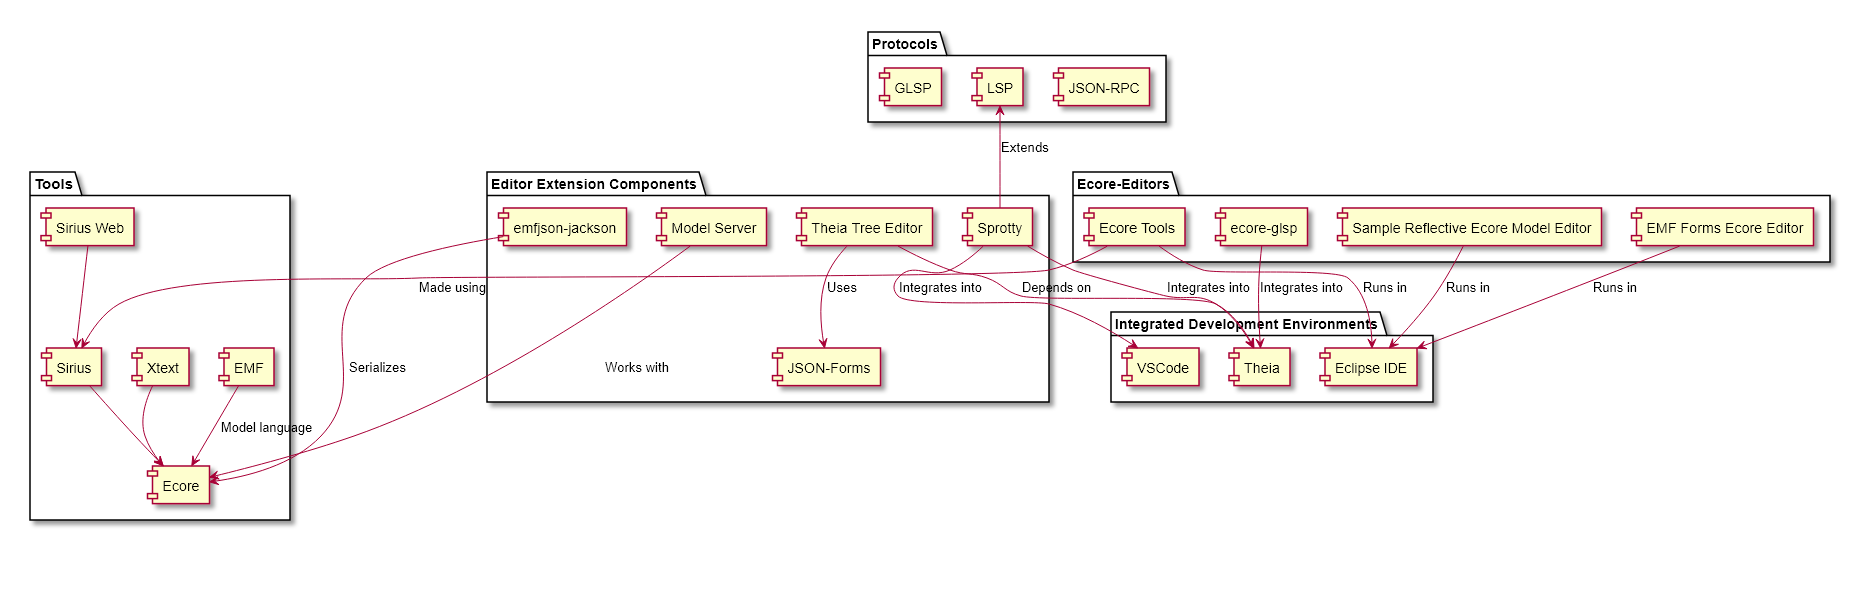
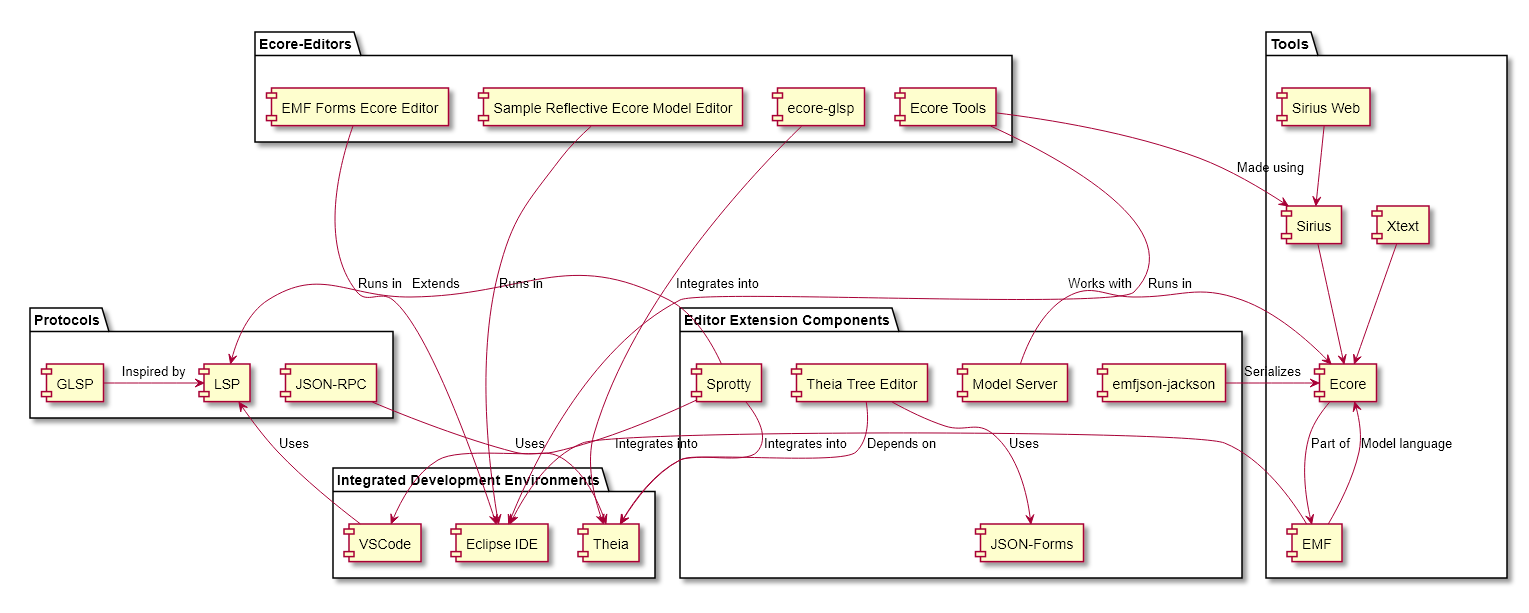
feat: Update figure

diff --git a/chapters/2-introduction/5-overview.tex b/chapters/2-introduction/5-overview.tex
@@ -3,13 +3,13 @@
 % Broad overview of the ecosystem,
 % before diving into detail
 
-% TODO: write this
-
 An overview of the background material is shown in \cref{fig:background-overview}, before diving into it.
 The figure is not optimal with respect to readability, but it illustrates that many of the items are related.
+Not all relations are shown either, to maintain \emph{some level} of readbility.
 
 \begin{figure}[htbp]  % order of priority: h here, t top, b bottom, p page
   \centering
-  \includegraphics[width=\textwidth]{figures/background-overview}
+  \hspace*{-2cm}%
+  \includegraphics[width=1.4\textwidth]{figures/background-overview}
   \caption[Background Overview]{An overview of how the background is related.}\label{fig:background-overview}
 \end{figure}
